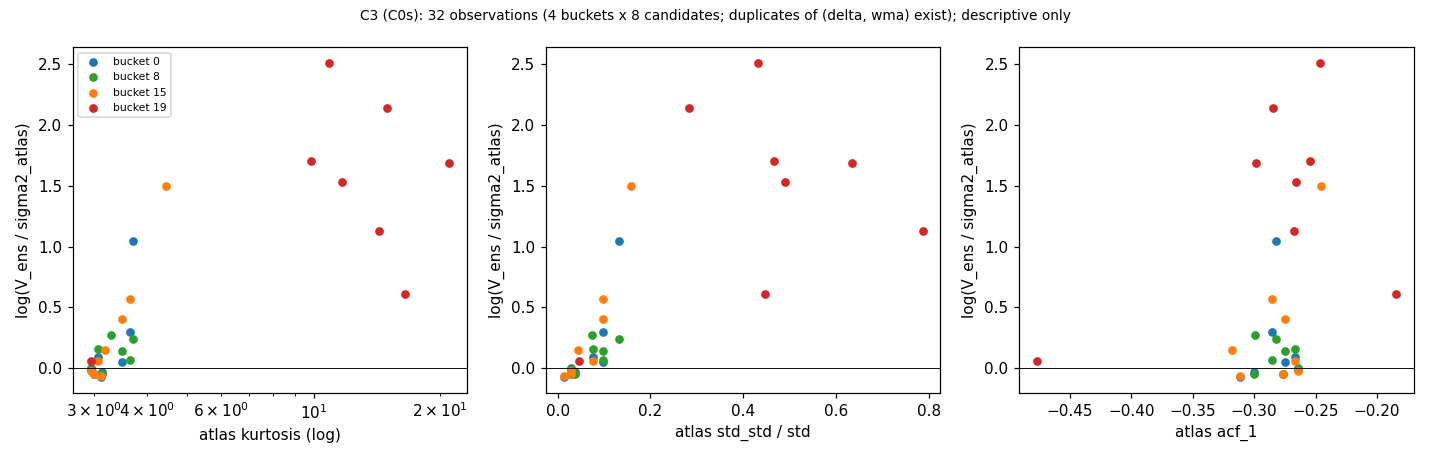
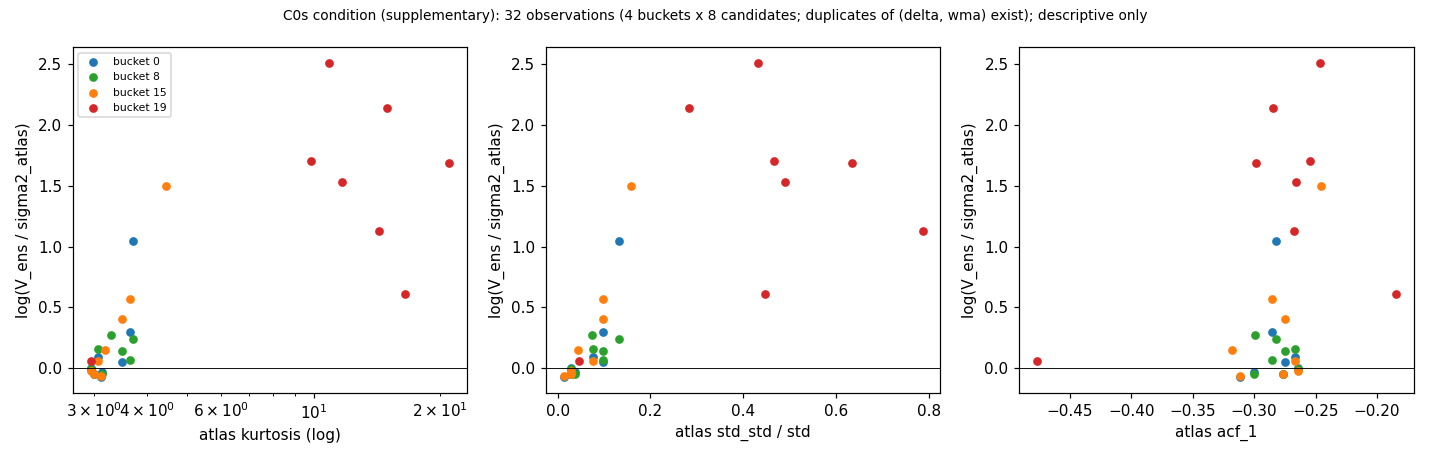
P5-B stage 3: figure titles distinguish C3 main and C0s supplementary

Changed region(s): [[0.1846, 0.0, 0.8, 0.0606]]

diff --git a/backend/research/p5b_stage3/s3_figs.py b/backend/research/p5b_stage3/s3_figs.py
@@ -52,7 +52,7 @@ for cond in E.CONDS:
         ax.set_xlabel(lab)
         ax.set_ylabel("log(V_ens / sigma2_atlas)")
     axs[0].legend(fontsize=7)
-    fig.suptitle(f"C3 ({cond}): 32 observations (4 buckets x 8 candidates; duplicates of (delta, wma) exist); descriptive only", fontsize=9)
+    fig.suptitle(f"{'C3 condition (main analysis)' if cond == 'C3' else 'C0s condition (supplementary)'}: 32 observations (4 buckets x 8 candidates; duplicates of (delta, wma) exist); descriptive only", fontsize=9)
     fig.tight_layout()
     fig.savefig(os.path.join(E.RESULTS, f"fig_c3_{cond}.png"), dpi=110)
     plt.close(fig)
